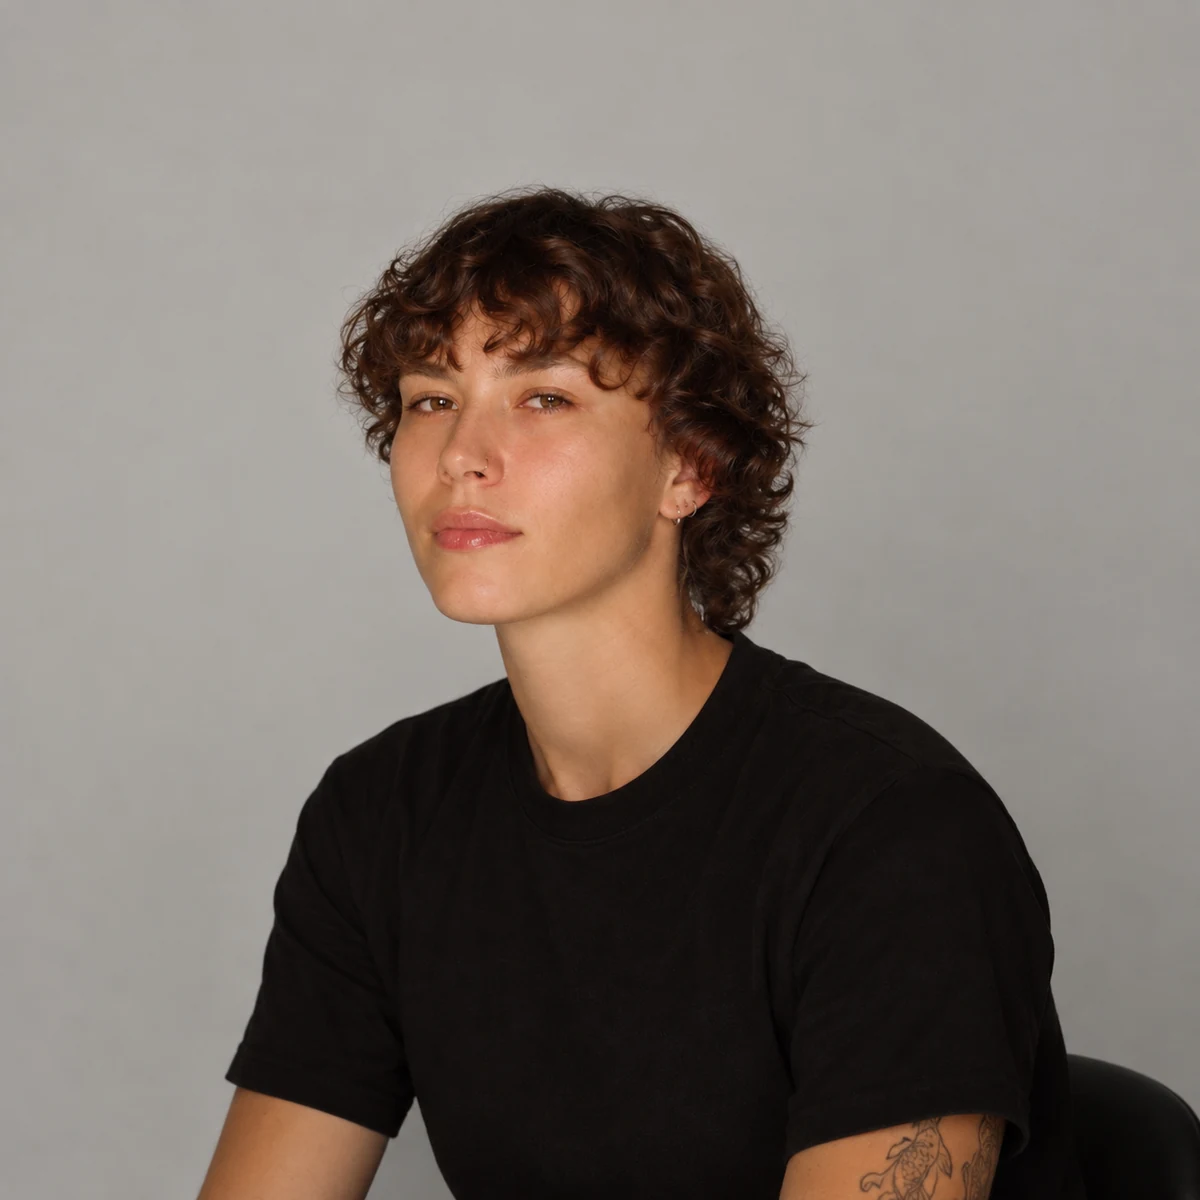
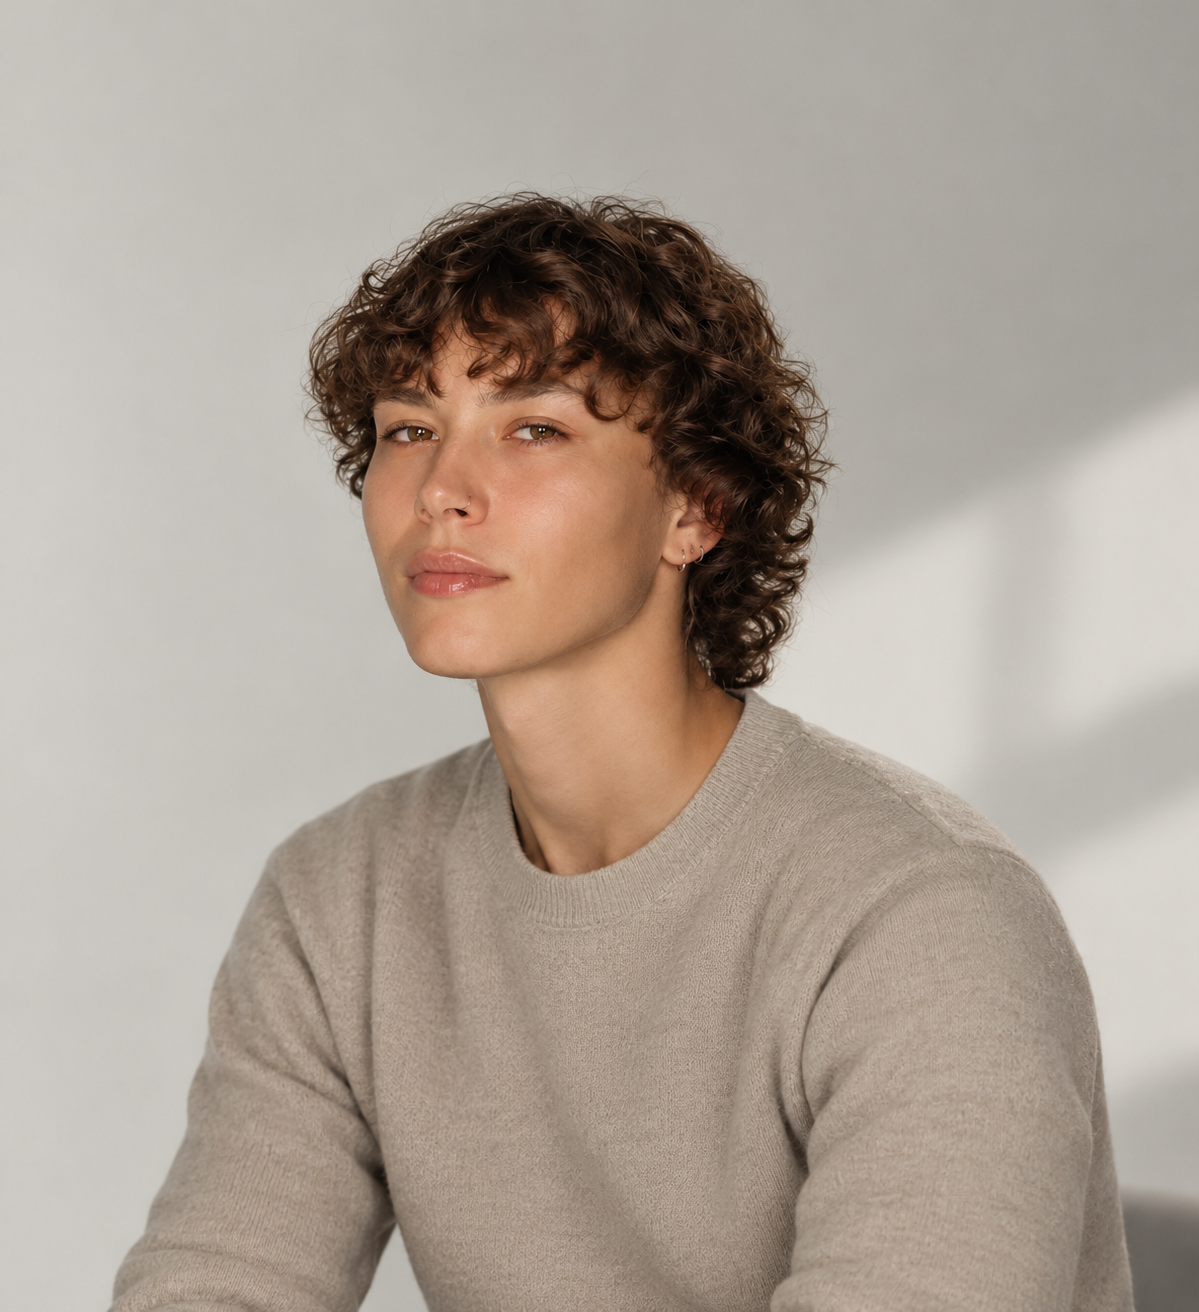
Add WebP portrait, WhatsApp contact, and About CTA

diff --git a/content/site.ts b/content/site.ts
@@ -127,7 +127,7 @@ export const about = {
      Leistungsbildern und Betreuungskarten. Ein eigener Radius nur
      fuer dieses eine Bild waere ein Sonderfall ohne Grund. */
   portrait: {
-    src: "/brand/karina-voag-portrait.png",
+    src: "/brand/karina-voag-portrait.webp",
     alt: "Karina Voag, Grafikdesignerin und Gründerin von KLIX VISUALS in München",
   },
   paragraphs: [
@@ -577,6 +577,8 @@ export const care = {
 export const contact = {
   /** Real, steht so auch im Impressum. */
   email: "kontakt@klixvisuals.de",
+  /** WhatsApp für Direktnachrichten */
+  whatsapp: "+49176413589069",
   /** Ziel des Formulars. Die Route stellt zu contact.email zu. */
   formEndpoint: "/api/anfrage" as string | null,
   /* Beide Angaben stehen im Anfrage-Sheet ueber den Feldern.

diff --git a/components/Sections.tsx b/components/Sections.tsx
@@ -284,6 +284,17 @@ export function About() {
               ))}
             </dl>
           </Reveal>
+
+          <Reveal delay={(about.paragraphs.length + 1) * 0.03}>
+            <a
+              href="#contact"
+              className="inline-flex items-center justify-center rounded-full
+                         bg-brand px-8 py-3 text-white transition-opacity
+                         hover:opacity-90 active:opacity-80 mt-4"
+            >
+              Projekt anfragen
+            </a>
+          </Reveal>
         </div>
       </div>
     </section>
